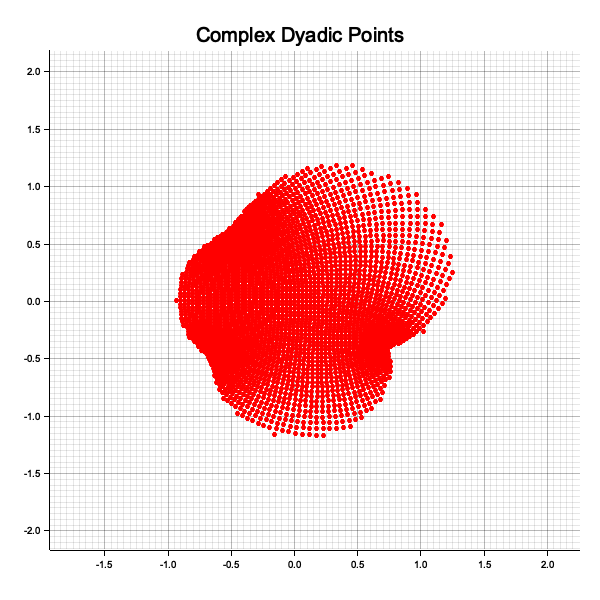
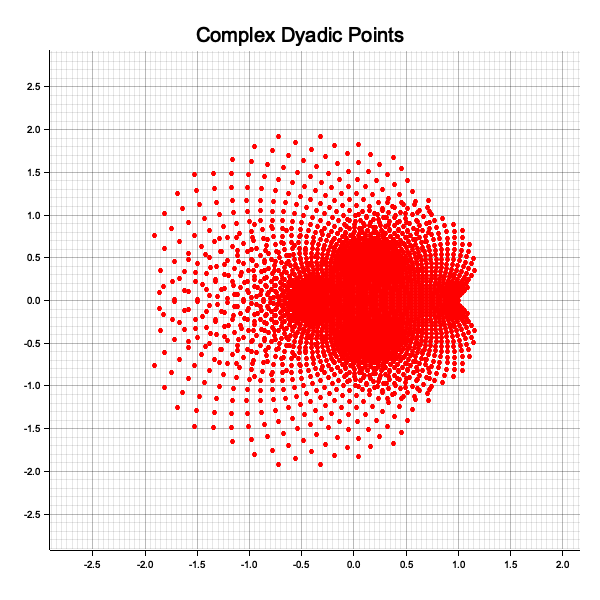
added boundaries

diff --git a/src/main.rs b/src/main.rs
@@ -1,78 +1,118 @@
 use landau::covering_grids::{
-    self, create_covering_grid, extreme_points, unit_disk_n, grid_complement, grid_approx
+    create_covering_grid, grid_approx_with_edge, unit_disk_n, unit_disk_n_boundary
 };
-use landau::dyadic::{psi, ComplexDyadic, Dyadic, Interval};
-use landau::plot::{self, plot_covering_grid, plot_set};
+use landau::dyadic::{ComplexDyadic, Dyadic};
+use landau::plot::{plot_covering_grid, plot_set};
 
 use landau::holomorphic::{
-    comp_vec_to_sequence, vec_to_sequence, BoundingSequence, ComplexFunction, ExpansionCoefficients,
+    BoundingSequence, ComplexFunction, ExpansionCoefficients,
 };
-use landau::psi::{generate_all_words, generate_word, mu_first, mu_second, psi_infinity};
-use plotters::prelude::*;
-
-use std::collections::LinkedList;
-use std::f64::consts::E;
+use landau::psi::{generate_all_words, psi_infinity, t_vector};
 use std::vec;
 
-fn evaluate_function(f : &Vec<ComplexDyadic>, delta : Dyadic, disk : &Vec<ComplexDyadic>) -> f64 {
+fn evaluate_function(f : &Vec<ComplexDyadic>, delta : Dyadic, image_acc : i32) -> f64 {
     let m_seq = vec![Dyadic::new(1, -1), Dyadic::new(1, -1), Dyadic::new(1, -1)] ; // no role for now
     let complex = ComplexFunction::new(
         BoundingSequence::new(m_seq),
         ExpansionCoefficients::new(f.clone()),
     );
     let integral: ComplexFunction = complex.antiderivative(); 
-    let mut image = Vec::new() ;
-    for x in disk {
-        image.push(integral.eval(*x))
-    }
-    let grid = create_covering_grid(&image, delta.clone()* Dyadic::new(4, 0), delta.clone()) ;
-    grid_approx(&grid, delta)
-} 
-fn main()-> Result<(), Box<dyn std::error::Error>>
-{   
-    let mut min_word = vec![] ;
-    let mut min = 5.0 ;
-    let disk1 = unit_disk_n(-5) ;
 
-    for i in 0..150 {
-    let m_seq = vec![Dyadic::new(1, 0), Dyadic::new(1, -1), Dyadic::new(1, -1), Dyadic::new(1, -2)] ;
-    let t_seq = vec![0, 1, 0, 1, 2, 0, 1, 2, 2, 0, 1, 2, 3, 0, 1, 2, 3, 0, 1, 2, 3, 0, 1, 2, 3];
-    let word = generate_word(30);
-    let holo1 = psi_infinity(&m_seq, &t_seq, &word) ;
-    let val = evaluate_function(&holo1, Dyadic::new(1, -3), &disk1);
+    let inside = unit_disk_n(image_acc) ;
     
-    if  val < min {
-        min = val ;
-        min_word = word
+    let edge = unit_disk_n_boundary(image_acc) ; 
+    let mut image_inside: Vec<ComplexDyadic> = Vec::new() ;
+    let mut image_outside: Vec<ComplexDyadic> = Vec::new() ;
+    
+
+    for x in &inside {
+        image_inside.push(integral.eval(*x))
     }
-}
-    print!(" this is min word{:?}", min_word) ;
-    println!("\n this is min approx {}", min) ;
-    let m_seq1 = vec![Dyadic::new(1, 0), Dyadic::new(1, -1), Dyadic::new(1, -1), Dyadic::new(1, -2)] ;
+    for y in &edge {
+        image_outside.push(integral.eval(*y))
+    }
+    let grid_inside = create_covering_grid(&image_inside, delta.clone()* Dyadic::new(4, 0), delta.clone()) ;
+    let grid_outside = create_covering_grid(&image_outside, delta.clone()* Dyadic::new(4, 0), delta.clone()) ;
+    grid_approx_with_edge(&grid_inside, &grid_outside,  delta)
+} 
+fn main() -> Result<(), Box<dyn std::error::Error>>
+{   
+    
+
+    let m_seq = vec![Dyadic::new(1, 0), Dyadic::new(1, -1), Dyadic::new(1, -1), Dyadic::new(1, -1)] ;
+    let t_seq = t_vector(20) ;
+    let all_6 = generate_all_words(6) ;
+
+    let mut min_word = vec![1, 1, 3, 1, 1, 1] ;
+    let mut min = 5.0 ;
+    let holo1 = psi_infinity(&m_seq, &t_seq, &min_word) ;
+    let val = evaluate_function(&holo1, Dyadic::new(1, -5), -5);
+    println!("\n this is min approx {}", val) ;
+    
+    // for word in all_6 { 
+    //     let m_seq = vec![Dyadic::new(1, 0), Dyadic::new(1, -1), Dyadic::new(1, -1), Dyadic::new(1, -2)] ;
+    //     let t_seq = vec![0, 1, 0, 1, 2, 0, 1, 2, 2, 0, 1, 2, 3, 0, 1, 2, 3, 0, 1, 2, 3, 0, 1, 2, 3];
+    //     let holo1 = psi_infinity(&m_seq, &t_seq, &word) ;
+    //     let val = evaluate_function(&holo1, Dyadic::new(1, -5), -5);
+        
+    //     if  val < min {
+    //         min = val ;
+    //         min_word = word
+    //     }
+    // } 
+    // print!(" this is min word{:?}", min_word) ;
+    // println!("\n this is min approx {}", min) ;
+   
+
+
+
+
+    let m_seq1 = vec![Dyadic::new(1, 0), Dyadic::new(1, -1), Dyadic::new(1, -1), Dyadic::new(1, -1)] ;
     let t_seq1 = vec![0, 1, 0, 1, 2, 0, 1, 2, 2, 0, 1, 2, 3, 0, 1, 2, 3, 0];
     let min_func = psi_infinity(&m_seq1, &t_seq1, &min_word) ;
-    for z in min_func.clone() {
-        println!("{z}")
-    }
-    println!("done with vector") ;
-    let mut min_im: Vec<_> = Vec::new() ;
 
-
-    let disk = unit_disk_n(-5) ;
+    let test_func = vec![ComplexDyadic::one(), ComplexDyadic::zero(), ComplexDyadic::zero(),ComplexDyadic::new(Dyadic::new(81, -5), Dyadic::zero()), ComplexDyadic::new(Dyadic::new(-81 * 5, -7), Dyadic::zero())];
+    let disk1 = unit_disk_n(-5) ;
+    let disk_boundary1 = unit_disk_n_boundary(-5) ;
     let min_complex = ComplexFunction::new(
         BoundingSequence::new(m_seq1),
-        ExpansionCoefficients::new(min_func.clone()),
+        ExpansionCoefficients::new(test_func.clone()),
     );
+    let mut min_im: Vec<ComplexDyadic> = Vec::new() ;
+
     let min_integral = min_complex.antiderivative();
-    for x in &disk {
+    for x in &disk1 {
         min_im.push(min_integral.eval(*x))
     }    ;
     plot_set(&min_im, "min_image.png") ;
-    let min_grid = create_covering_grid(&min_im, Dyadic::new(1, -3), Dyadic::new(1, -5)) ;
+    let min_grid = create_covering_grid(&min_im, Dyadic::new(1, -4), Dyadic::new(1, -5)) ;
     plot_covering_grid(&min_grid, "min_grid.png") ;
-    
     Ok(())
 }
+
+
+// let mut min_word: Vec<_> = vec![] ;
+    // let mut min = 5.0 ;
+    // let disk1 = unit_disk_n(-3) ;
+    // let disk_boundary = unit_disk_n_boundary(-5) ;
+    // plot_set(&disk_boundary, "boundary.png") ;
+
+    // for i in 0..100 {
+    //     let m_seq = vec![Dyadic::new(1, 0), Dyadic::new(1, -1), Dyadic::new(1, -1), Dyadic::new(1, -2)] ;
+    //     let t_seq = vec![0, 1, 0, 1, 2, 0, 1, 2, 2, 0, 1, 2, 3, 0, 1, 2, 3, 0, 1, 2, 3, 0, 1, 2, 3];
+    //     let word = generate_word(30);
+    //     let holo1 = psi_infinity(&m_seq, &t_seq, &word) ;
+    //     let val = evaluate_function(&holo1, Dyadic::new(1, -3), &disk1);
+        
+    //     if  val < min {
+    //         min = val ;
+    //         min_word = word
+    //     }
+    // }
+    // print!(" this is min word{:?}", min_word) ;
+    // println!("\n this is min approx {}", min) ;
+    // min = 5.0 ;
+
 // let min_func: Vec<ComplexDyadic> = psi_infinity(&m_seq1, &t_seq1, &word_min) ;
     // let min_func: Vec<ComplexDyadic> = vec![ComplexDyadic::zero(), ComplexDyadic::one(), ComplexDyadic::zero(), ComplexDyadic::new(Dyadic::new(-1, -2), Dyadic::zero()), ComplexDyadic::zero(), ComplexDyadic::new(Dyadic::new(-1, -3), Dyadic::zero()), ComplexDyadic::zero(), ComplexDyadic::new(Dyadic::new(-1, -3), Dyadic::zero())] ;
     

diff --git a/src/psi.rs b/src/psi.rs
@@ -43,7 +43,7 @@ pub fn generate_all_words(length: usize) -> Vec<Vec<u8>> {
     result
 }
 
-fn select_matching(n: u32, vec1: &Vec<u32>, vec2: &Vec<u8>) -> Vec<u8> {
+fn select_matching(n: usize, vec1: &Vec<usize>, vec2: &Vec<u8>) -> Vec<u8> {
     //words will be u8
     let mut output = Vec::new();
 
@@ -55,11 +55,11 @@ fn select_matching(n: u32, vec1: &Vec<u32>, vec2: &Vec<u8>) -> Vec<u8> {
     output
 }
 
-pub fn psi_infinity(m_seq: &Vec<Dyadic>, t_seq: &Vec<u32>, word: &Vec<u8>) -> Vec<ComplexDyadic> {
+pub fn psi_infinity(m_seq: &Vec<Dyadic>, t_seq: &Vec<usize>, word: &Vec<u8>) -> Vec<ComplexDyadic> {
     let mut out = Vec::new();
     out.push(ComplexDyadic::new(Dyadic::new(1, 0), Dyadic::new(0, 0)));
     for n in 0..m_seq.len() {
-        let word_on_step = select_matching(n as u32, t_seq, word);
+        let word_on_step = select_matching(n as usize, t_seq, word);
         let interval1 = Interval::new(
             m_seq[n] * Dyadic::new(-1, 0),
             m_seq[n],
@@ -96,4 +96,23 @@ pub fn mu_second(c: &f64, r: &Dyadic) -> f64 {
             + (c * e) / (2.0 * (1.0 - r.to_f64()).powf(2.0))
             + 2.0);
     return a;
+}
+
+fn t_stream() -> impl Iterator<Item = usize> {
+    (1usize..).flat_map(|k| 0..=k)
+}
+pub fn t_vector(len: usize) -> Vec<usize> {
+    t_stream().take(len).collect()
+}
+
+
+pub fn dyadic_ceil_with_exp(x: f64, exp: i32) -> Dyadic {
+    // scale = 2^{-exp}; if exp = -n, scale = 2^{n}
+    let step = (2.0f64).powi(exp); 
+    let y = x / step;
+    // Small safety bump to avoid rounding *below* due to FP error
+
+    let y_bumped = y + (y.abs() * f64::EPSILON + 1e-18);
+    let k = y_bumped.ceil() as i128;
+    Dyadic::new(k, exp)     // equals num * 2^{exp} >= x
 }

diff --git a/src/covering_grids.rs b/src/covering_grids.rs
@@ -23,6 +23,21 @@ pub fn unit_disk_n( n : i32) -> Vec<ComplexDyadic> { //could be improved, we che
     }
     return points
 }
+pub fn unit_disk_n_boundary(n : i32) -> Vec<ComplexDyadic> {
+    let mut points = Vec::new()  ;
+    let max = (2i128).pow(-n as u32) ;
+    for real in -max..=max {
+        for imaginary in -max..=max {
+            let re = Dyadic::new(real, n) ;
+            let im = Dyadic::new(imaginary, n) ;
+            let z = ComplexDyadic::new(re, im) ;
+            if z.abs() <= 1.0 + Dyadic::new(1,n).to_f64() && z.abs() >= 1.0 {
+                points.push(z)
+            }
+        }
+    }
+    return points
+}
 
 pub fn extreme_points(vec : &Vec<ComplexDyadic>) -> Option<Vec<ComplexDyadic>> {
     if vec.is_empty() {
@@ -137,4 +152,30 @@ pub fn grid_approx(grid : &HashSet<ComplexDyadic>, delta : Dyadic) -> f64 {
     max.unwrap() - (delta.to_f64()*4.0)
 }
 
+pub fn grid_approx_with_edge(inside : &HashSet<ComplexDyadic>, edge: &HashSet<ComplexDyadic>, delta : Dyadic) -> f64 {
+    let mut max : Option<f64> = Some(delta.to_f64()) ;
+    for point1 in inside{
+        let mut min : Option<f64> = None ;
+        for point2 in edge {
+            let dist = (*point1 - *point2).abs() ;
+            if let Some(current_min) = min {
+                if dist < current_min {
+                    min = Some(dist)
+                }
+            }
+            else {
+                min = Some(dist)
+            }
+        }
+        if let Some(current_max) = max {
+            if min.unwrap() > current_max {
+                max = Some(min.unwrap())
+            }
+        }
+        else {
+            max = Some(min.unwrap())
+        }
+    }
+    max.unwrap() 
+}
 
